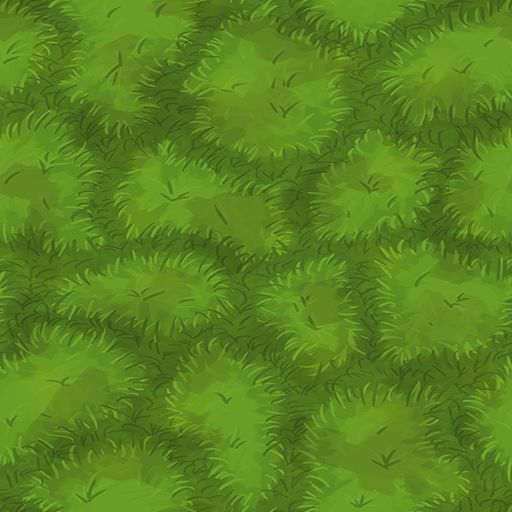
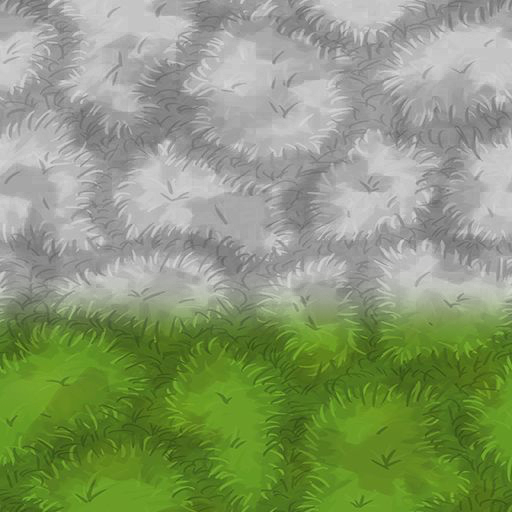
oi

diff --git a/tp3/objects/scenery/MySnow.js b/tp3/objects/scenery/MySnow.js
@@ -75,7 +75,7 @@ class MySnow extends THREE.Object3D {
 
       this.snowList[i].position.y += this.snowList[i].vy;
 
-      if (this.snowList[i].position.y < -300) {
+      if (this.snowList[i].position.y < -100) {
         this.snowList[i].material.opacity += 0.1;
         this.remove(this.snowList[i]);
         this.snowList.splice(i, 1);

diff --git a/tp3/MyContents.js b/tp3/MyContents.js
@@ -357,7 +357,7 @@ class MyContents {
         if(this.reader){
           this.reader.update()
         }
-        //this.updateSnow()
+        this.updateSnow()
         break;
         case State.CHOOSE_OBSTACLE:
           if(this.opponent) {
